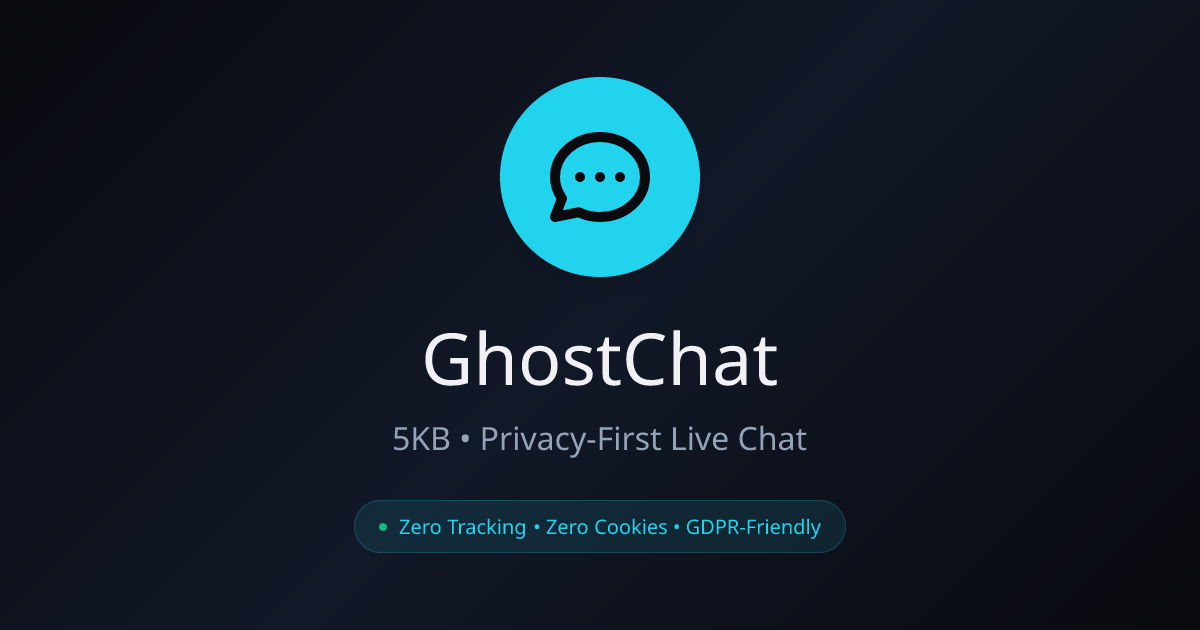
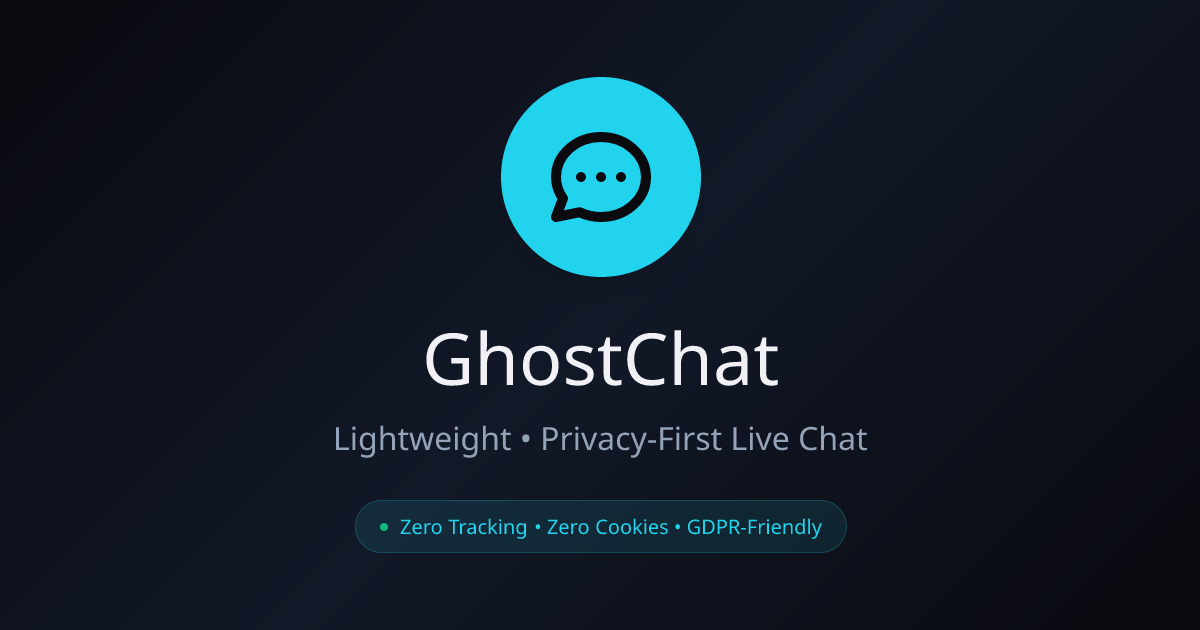
Reorder education, update testimonials, add GhostChat live demo + image
- DevMountain before UMD (reverse chronological)
- Yaakov Aglamaz title: VP R&D at One Digital
- Testimonial author names aligned to bottom of cards
- GhostChat: "Chat now" link opens live widget, updated description
- Replaced GhostChat image (removed old 5KB reference)
- Added AI-assisted development to deep capabilities

diff --git a/index.html b/index.html
@@ -217,7 +217,7 @@
                 <p class="project-description">
                   A privacy‑first, ultra‑light chat widget engineered to be
                   <strong>up to 20× smaller</strong> and <strong>3–8× faster</strong> than legacy tools like Intercom or
-                  Drift.
+                  Drift. The chat widget on this site is GhostChat.
                 </p>
                 <div class="project-tags">
                   <span>Cloudflare Workers</span>
@@ -237,6 +237,7 @@
                 </div>
                 <div class="project-links">
                   <a href="https://ghostchat.dev/" target="_blank" rel="noopener" class="project-link">View Project</a>
+                  <a href="#" onclick="document.getElementById('ghostchat-bubble').click();return false;" class="project-link">Chat now</a>
                 </div>
               </div>
             </div>
@@ -409,6 +410,19 @@
             <div class="experience-card fade-in">
               <div class="experience-header">
                 <div>
+                  <h3>DevMountain</h3>
+                  <p class="experience-role">Full Stack Web Development Bootcamp</p>
+                </div>
+                <span class="experience-date">2020–2021</span>
+              </div>
+              <ul class="list">
+                <li>Most Advanced Project award</li>
+              </ul>
+            </div>
+
+            <div class="experience-card fade-in">
+              <div class="experience-header">
+                <div>
                   <h3>University of Maryland</h3>
                   <p class="experience-role">B.Sc. Information Systems</p>
                 </div>
@@ -418,19 +432,6 @@
                 <li>3.5 GPA</li>
                 <li>Kathryn Stewart Fellowship — $5,000 entrepreneurship award</li>
                 <li>Capital One grant ($1,000) for Trekit travel app</li>
-              </ul>
-            </div>
-
-            <div class="experience-card fade-in">
-              <div class="experience-header">
-                <div>
-                  <h3>DevMountain</h3>
-                  <p class="experience-role">Full Stack Web Development Bootcamp</p>
-                </div>
-                <span class="experience-date">2020–2021</span>
-              </div>
-              <ul class="list">
-                <li>Most Advanced Project award</li>
               </ul>
             </div>
           </div>
@@ -452,7 +453,7 @@
               </blockquote>
               <div class="testimonial-author">
                 <strong>Yaakov Aglamaz</strong>
-                <span>Manager at One Digital</span>
+                <span>VP R&amp;D at One Digital</span>
               </div>
             </div>
 
@@ -509,6 +510,7 @@
               <li>Multilingual systems</li>
               <li>High‑scale analytics parsing</li>
               <li>Performance profiling</li>
+              <li>AI‑assisted development</li>
             </ul>
           </div>
         </div>

diff --git a/styles.css b/styles.css
@@ -1032,6 +1032,7 @@ h1 {
   flex-direction: column;
   gap: 0.15rem;
   padding-top: 0.8rem;
+  margin-top: auto;
   border-top: 1px solid rgba(209, 213, 219, 0.6);
 }
 
